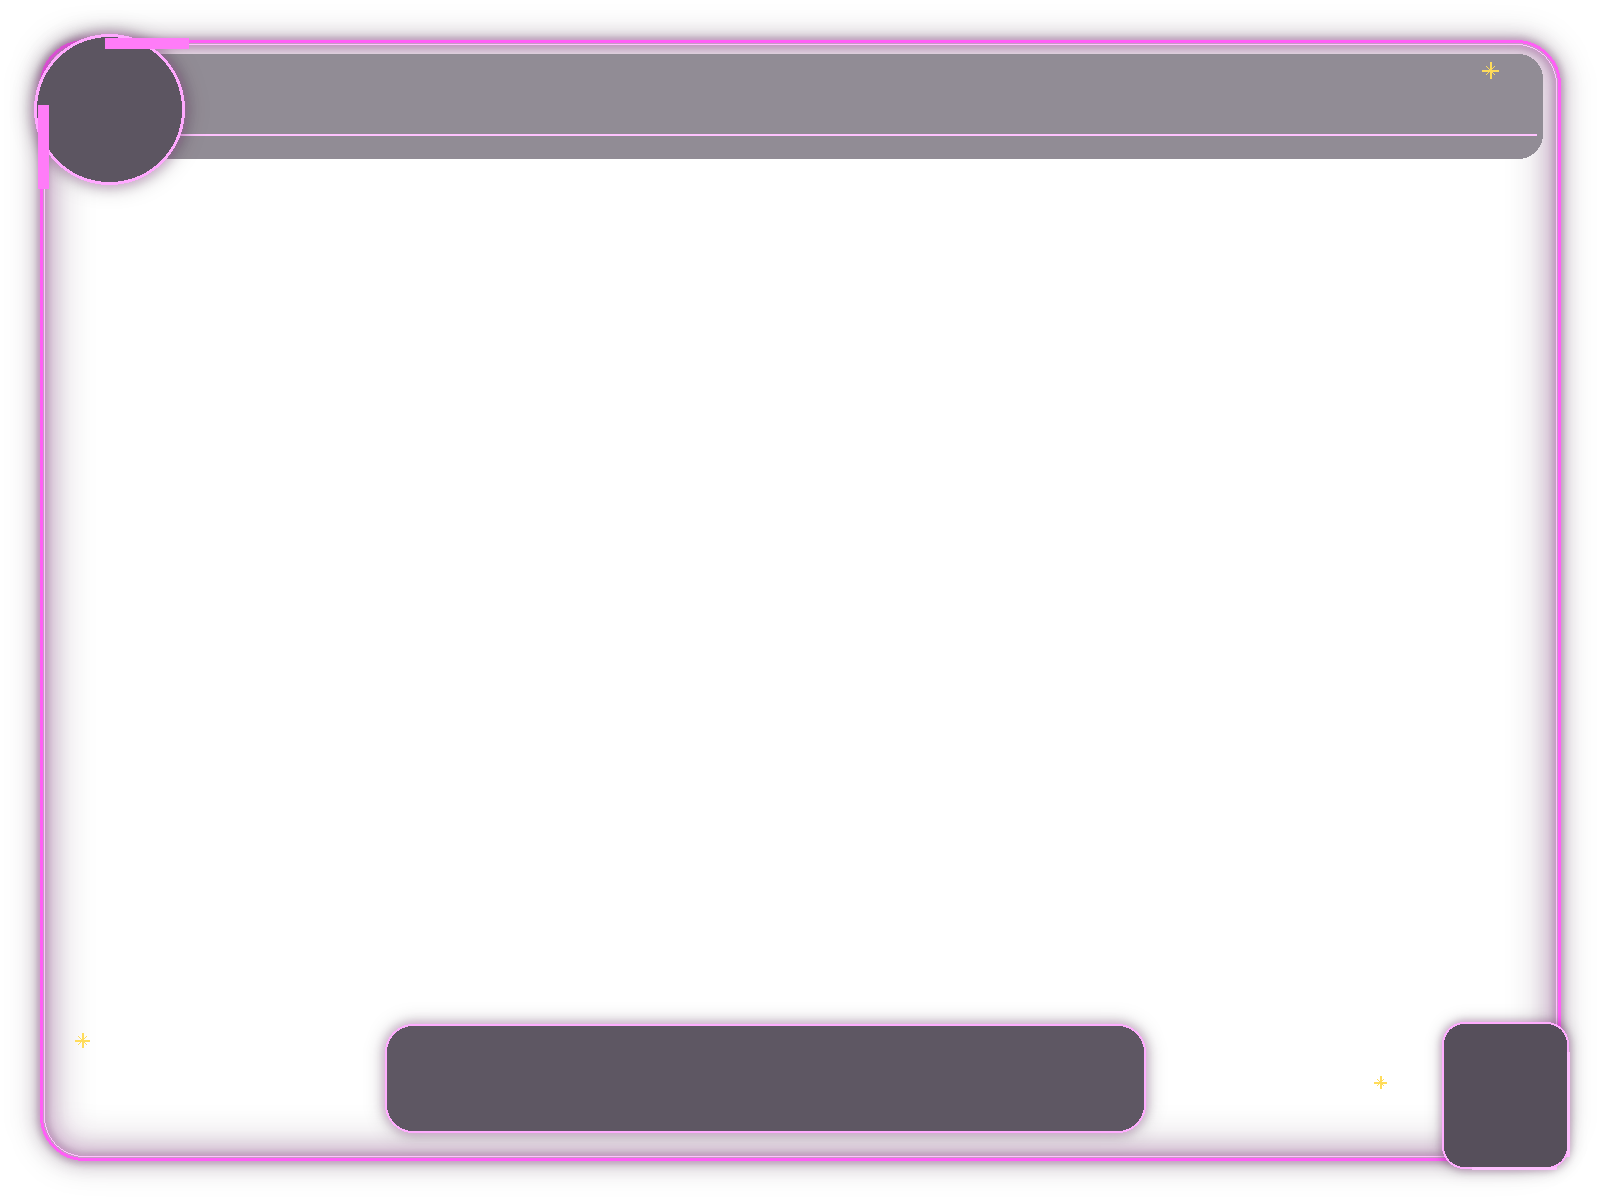
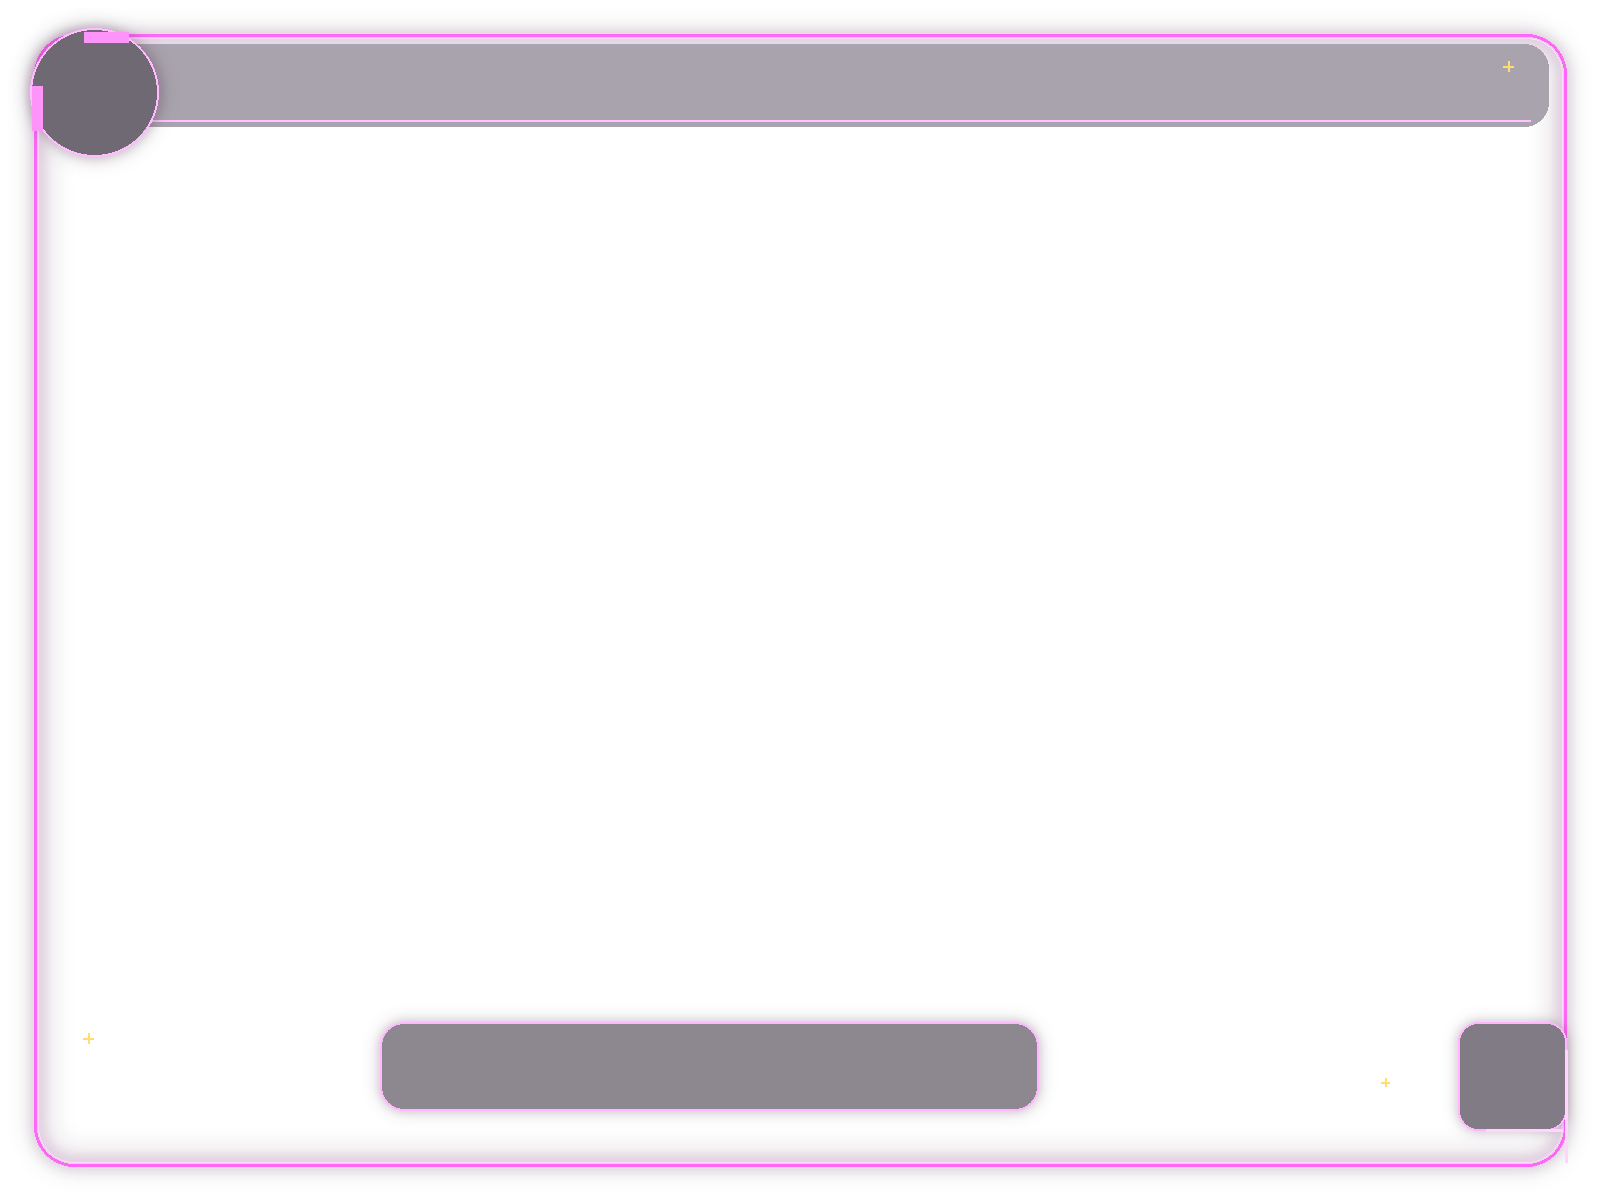
Overlay update

Changed region(s): [[0.0, 0.0, 1.0, 0.9867]]

diff --git a/includes/photo-uploads.php b/includes/photo-uploads.php
@@ -631,21 +631,21 @@ function photo_render_framed_image($sourcePath, $destPath, $event, $orientation 
         $canvas->compositeImage($overlay, Imagick::COMPOSITE_OVER, 0, 0);
 
         $logo = new Imagick($logoPath);
-        $logoSize = $landscape ? 128 : 144;
+        $logoSize = $landscape ? 116 : 124;
         $logo->resizeImage($logoSize, $logoSize, Imagick::FILTER_LANCZOS, 1, true);
-        $logoX = $landscape ? 26 : 18;
-        $logoY = $landscape ? 26 : 18;
+        $logoX = $landscape ? 22 : 18;
+        $logoY = $landscape ? 22 : 18;
         $canvas->compositeImage($logo, Imagick::COMPOSITE_OVER, $logoX, $logoY);
 
         $qr = new Imagick($qrPath);
-        $qrSize = $landscape ? 92 : 86;
+        $qrSize = $landscape ? 82 : 72;
         $qr->resizeImage($qrSize, $qrSize, Imagick::FILTER_POINT, 1, true);
         $qrPad = 6;
         $qrHolder = new Imagick();
         $qrHolder->newImage($qrSize + ($qrPad * 2), $qrSize + ($qrPad * 2), new ImagickPixel('white'));
         $qrHolder->compositeImage($qr, Imagick::COMPOSITE_OVER, $qrPad, $qrPad);
-        $qrX = $landscape ? 1452 : 942;
-        $qrY = $landscape ? 1042 : 1182;
+        $qrX = $landscape ? 1466 : 956;
+        $qrY = $landscape ? 1030 : 1190;
         $canvas->compositeImage($qrHolder, Imagick::COMPOSITE_OVER, $qrX, $qrY);
 
         $fontBold = photo_imagick_font_path(true);
@@ -657,40 +657,40 @@ function photo_render_framed_image($sourcePath, $destPath, $event, $orientation 
         $dateLine = photo_event_date_long($event['event_date'] ?? '');
 
         if ($landscape) {
-            $titleX = 215;
-            $titleY = 86;
-            $titleMaxW = 530;
-            $titleSize = photo_imagick_fit_font_size($canvas, $eventName, $fontBold, 44, $titleMaxW, 28);
+            $titleX = 185;
+            $titleY = 74;
+            $titleMaxW = 470;
+            $titleSize = photo_imagick_fit_font_size($canvas, $eventName, $fontBold, 40, $titleMaxW, 26);
             photo_imagick_draw_text($canvas, $eventName, $titleX, $titleY, $fontBold, $titleSize, '#ffcf40', 'rgba(80,0,40,0.75)', 1, $titleMaxW);
 
             $venueText = 'Venue: ' . ($venueLine !== '' ? $venueLine : 'Dance Thru The Decades');
             $dateText = 'Date: ' . ($dateLine !== '' ? $dateLine : 'TBA');
-            photo_imagick_draw_text($canvas, $venueText, 770, 78, $fontRegular, 20, 'rgba(245,245,255,0.96)', null, 0, 330);
-            photo_imagick_draw_text($canvas, $dateText, 1160, 78, $fontRegular, 20, 'rgba(245,245,255,0.96)', null, 0, 300);
+            photo_imagick_draw_text($canvas, $venueText, 740, 70, $fontRegular, 19, 'rgba(245,245,255,0.96)', null, 0, 330);
+            photo_imagick_draw_text($canvas, $dateText, 1112, 70, $fontRegular, 19, 'rgba(245,245,255,0.96)', null, 0, 290);
 
-            photo_imagick_draw_pill($canvas, 'EVENT PHOTO', 205, 98, $fontBold, 18, 'white', '#f7aaff', 'rgba(12,0,20,0.72)', 26, 42, 210);
+            photo_imagick_draw_pill($canvas, 'EVENT PHOTO', 190, 82, $fontBold, 17, 'white', '#f7aaff', 'rgba(12,0,20,0.72)', 24, 37, 190);
             $creditName = trim((string)$creditName);
             if ($creditName !== '') {
-                photo_imagick_draw_pill($canvas, 'Photo by ' . $creditName, 1252, 96, $fontRegular, 17, 'white', '#f7aaff', 'rgba(12,0,20,0.72)', 22, 42, 210);
+                photo_imagick_draw_pill($canvas, 'Photo by ' . $creditName, 1248, 80, $fontRegular, 16, 'white', '#f7aaff', 'rgba(12,0,20,0.72)', 20, 37, 195);
             }
 
-            photo_imagick_draw_text($canvas, 'Dance Thru The Decades', 800, 1048, $fontBold, 40, '#ffcf40', 'rgba(80,0,40,0.75)', 1, 0, Imagick::ALIGN_CENTER);
-            photo_imagick_draw_text($canvas, '60s  •  70s  •  80s  •  90s  •  00s', 800, 1094, $fontRegular, 20, '#ffcf40', null, 0, 0, Imagick::ALIGN_CENTER);
+            photo_imagick_draw_text($canvas, 'Dance Thru The Decades', 709, 1064, $fontBold, 34, '#ffcf40', 'rgba(80,0,40,0.75)', 1, 0, Imagick::ALIGN_CENTER);
+            photo_imagick_draw_text($canvas, '60s  •  70s  •  80s  •  90s  •  00s', 709, 1096, $fontRegular, 18, '#ffcf40', null, 0, 0, Imagick::ALIGN_CENTER);
         } else {
-            $titleX = 186;
-            $titleY = 96;
-            $titleMaxW = 670;
-            $titleSize = photo_imagick_fit_font_size($canvas, $eventName, $fontBold, 40, $titleMaxW, 24);
+            $titleX = 158;
+            $titleY = 88;
+            $titleMaxW = 600;
+            $titleSize = photo_imagick_fit_font_size($canvas, $eventName, $fontBold, 36, $titleMaxW, 22);
             photo_imagick_draw_text($canvas, $eventName, $titleX, $titleY, $fontBold, $titleSize, '#ffcf40', 'rgba(80,0,40,0.75)', 1, $titleMaxW);
-            photo_imagick_draw_text($canvas, 'Venue: ' . ($venueLine !== '' ? $venueLine : 'Dance Thru The Decades'), 186, 132, $fontRegular, 20, 'rgba(245,245,255,0.96)', null, 0, 620);
-            photo_imagick_draw_text($canvas, 'Date: ' . ($dateLine !== '' ? $dateLine : 'TBA'), 186, 162, $fontRegular, 20, 'rgba(245,245,255,0.96)', null, 0, 620);
-            photo_imagick_draw_pill($canvas, 'EVENT PHOTO', 186, 186, $fontBold, 16, 'white', '#f7aaff', 'rgba(12,0,20,0.72)', 22, 38, 190);
+            photo_imagick_draw_text($canvas, 'Venue: ' . ($venueLine !== '' ? $venueLine : 'Dance Thru The Decades'), 158, 122, $fontRegular, 19, 'rgba(245,245,255,0.96)', null, 0, 600);
+            photo_imagick_draw_text($canvas, 'Date: ' . ($dateLine !== '' ? $dateLine : 'TBA'), 158, 150, $fontRegular, 19, 'rgba(245,245,255,0.96)', null, 0, 600);
+            photo_imagick_draw_pill($canvas, 'EVENT PHOTO', 158, 172, $fontBold, 15, 'white', '#f7aaff', 'rgba(12,0,20,0.72)', 21, 36, 180);
             $creditName = trim((string)$creditName);
             if ($creditName !== '') {
-                photo_imagick_draw_pill($canvas, 'Photo by ' . $creditName, 700, 186, $fontRegular, 16, 'white', '#f7aaff', 'rgba(12,0,20,0.72)', 20, 38, 220);
+                photo_imagick_draw_pill($canvas, 'Photo by ' . $creditName, 720, 172, $fontRegular, 15, 'white', '#f7aaff', 'rgba(12,0,20,0.72)', 18, 36, 200);
             }
-            photo_imagick_draw_text($canvas, 'Dance Thru The Decades', 540, 1194, $fontBold, 36, '#ffcf40', 'rgba(80,0,40,0.75)', 1, 0, Imagick::ALIGN_CENTER);
-            photo_imagick_draw_text($canvas, '60s  •  70s  •  80s  •  90s  •  00s', 540, 1238, $fontRegular, 18, '#ffcf40', null, 0, 0, Imagick::ALIGN_CENTER);
+            photo_imagick_draw_text($canvas, 'Dance Thru The Decades', 464, 1224, $fontBold, 31, '#ffcf40', 'rgba(80,0,40,0.75)', 1, 0, Imagick::ALIGN_CENTER);
+            photo_imagick_draw_text($canvas, '60s  •  70s  •  80s  •  90s  •  00s', 464, 1255, $fontRegular, 16, '#ffcf40', null, 0, 0, Imagick::ALIGN_CENTER);
         }
 
         $canvas->setImageFormat('jpeg');
